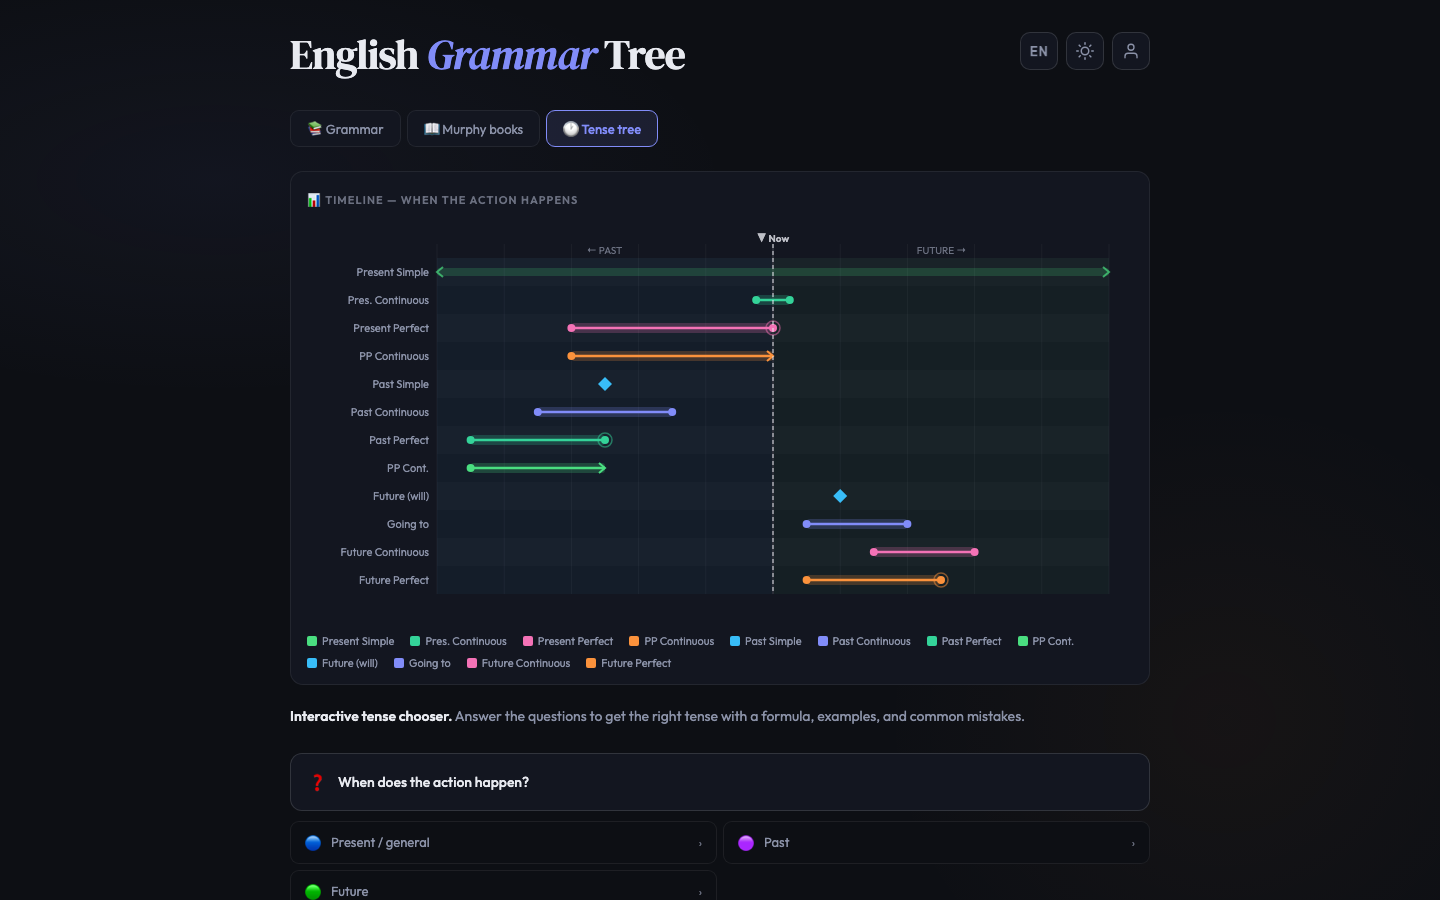
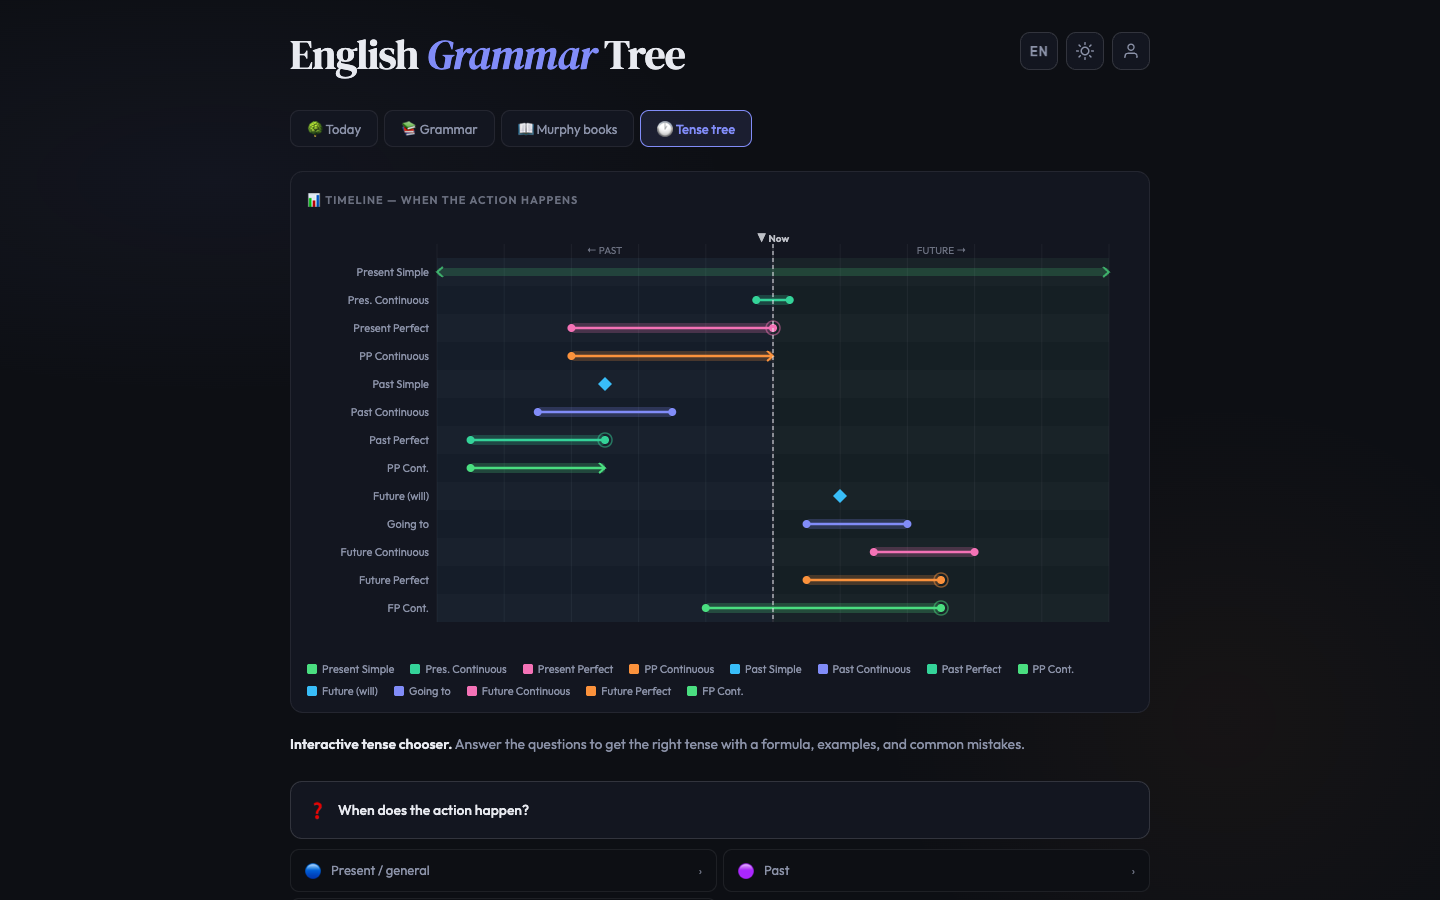
docs: readme screenshots and explanations for the tree, games and tenses
- New screenshots: the painted tree, its growth from bare to full bloom, the
  four times of day, a rule's card, the Today tab, games, a game round,
  progress and the Future Perfect Continuous result card.
- Explain how to read the tree and how the games feed the same progress.
- Refresh the tense timeline screenshot (13 tenses).

Changed region(s): [[0.1875, 0.6533, 0.75, 1.0], [0.2188, 0.1244, 0.5312, 0.1867], [0.5, 0.9333, 0.5625, 0.9956]]

diff --git a/README.md b/README.md
@@ -11,9 +11,9 @@
 [![Firebase](https://img.shields.io/badge/Firebase-ffca28?style=for-the-badge&logo=firebase&logoColor=black)](https://firebase.google.com)
 [![PWA](https://img.shields.io/badge/PWA-ready-5a0fc8?style=for-the-badge&logo=pwa&logoColor=white)](https://web.dev/progressive-web-apps/)
 
-![Grammar rules page](screenshots/main-page-dark.png)
+![Your grammar tree: every rule you learn grows leaves, blossom and apples](screenshots/grammar-tree.jpg)
 
-<sub><em>☀ Light theme · 🌙 Dark theme — switch any time, stays in sync across devices.</em></sub>
+<sub><em>Your progress is a tree. It starts bare; every rule you learn puts leaves, blossom and finally an apple on its own twigs.</em></sub>
 
 </div>
 
@@ -96,13 +96,44 @@ A polished **light/dark theme** (no flash on load), particle animations on rule 
 
 The **Today** tab (the default) turns the reference into a daily habit. A greeting card shows your 🔥 streak, the daily XP ring and your level, nudges you with what matters most right now (a streak at risk, leaves to water, XP left to the goal) and puts **one big button** in front of you: the daily session. Everything else sits behind a sticky switcher — **Tree · Games · Leaderboard · Progress · Badges**.
 
-**🌳 Tree**
+![Today tab: streak, daily goal, the session button and the tree](screenshots/today.jpg)
+
+#### 🌳 The tree — your progress, painted
+
+The tree is the heart of the app. It is not a decoration with a progress bar next to it: **the foliage itself is your progress**. A brand-new learner sees a bare winter tree; a learner who has mastered everything sees a crown heavy with apples.
+
+![The same tree on day one, a few weeks in, and with everything mastered](screenshots/tree-growth.jpg)
+
+**How to read it**
+
+| On the tree | Means |
+|---|---|
+| 🌰 A bud on a bare twig | You haven't started this rule |
+| 🌱 A few pale young leaves | Your first correct answers |
+| 🍃 A full green spray | You're learning the rule |
+| 🌸 Blossom | You know it — it counts as "in bloom" |
+| 🍎 An apple | Long-term memory: mastered |
+| 🍂 Yellow tips | It's due for review |
+| 🟡 A fully yellow spray with a red ring | A **shaky** rule: you keep getting it wrong in real use |
+
+**How it is organised**
+
 - A painted tree in a meadow: one limb per CEFR level, and every one of the 143 rules owns its own twigs and its own area of the crown.
-- The tree starts bare. A rule grows 🌰 bud → 🌱 young leaves → 🍃 full leaves → 🌸 blossom → 🍎 apple as you *prove* you know it. Leaves yellow 🍂 at the tips when it's time to review, and a rule you keep getting wrong in real use turns fully yellow with a red ring.
+- Rules follow the branch in curriculum order, so a topic fills in one sub-branch at a time and you can see where you are in a level.
 - Each limb carries a wooden sign with its level and count. A level in full bloom gets extra blossom and a gold sign.
 - Point at the crown to see a rule's area and name; tap it to open the rule or practise it. Every rule is also reachable by keyboard and screen reader.
 - The meadow follows your clock — night, sunrise, afternoon, sunset — and the limbs sway in the wind while leaves drift down (off when *reduce motion* is on, paused when the tree is off-screen).
 - **Level exams** (20 mixed questions, 80% to pass) earn a 👑 on the level's sign and a downloadable certificate.
+
+![Pointing at the crown shows a rule's area and name; tapping it opens its card](screenshots/tree-rule-card.jpg)
+
+<sub><em>Tap a rule's area to see its stage, your accuracy, and buttons to practise it or open the rule.</em></sub>
+
+The scene follows the time on your device, cross-fading over an hour at each change:
+
+![The meadow at night, sunrise, afternoon and sunset](screenshots/tree-day-cycle.jpg)
+
+Under the hood the tree is a painting cut into a trunk and six limbs, with leaves, blossom and fruit added from painted sprites on mapped twig points. The layout is computed for however many rules a level has, so adding rules never needs new artwork.
 
 **🎯 Learning loop**
 - **Daily session** — 12 short exercises (~5 min): due reviews first, your recent mistakes, then a few items from the next new rule. Spaced repetition (Leitner boxes: 1 → 3 → 7 → 14 → 30 → 60 → 120 days) decides what comes back and when.
@@ -111,7 +142,22 @@ The **Today** tab (the default) turns the reference into a daily habit. A greeti
 - **Placement test** — a 5-minute adaptive test that finds your level and can mark lower levels as known.
 - **Streaks with freezes, a daily XP goal, levels** and **20 badges**.
 
-**🎮 Games** — 43 games, all tied to grammar rules, with **personal recommendations** (the daily challenge plus games at your level you haven't tried) and filters by group: error hunter, right-or-wrong sprint, gap fill, sentence builder, dictation, survival, Murphy drill, tense detective (walk the decision tree), timeline match, marker sort, same scene/two tenses, verb forge, verb memory, article rush, preposition sort, adjective stack, number dictation, question maker, consequence match, transformer (passive), gossip chain (reported speech), verb patterns, modal detective, regret machine (wish), sentence welder (relative clauses), formalizer (inversion), spotlight (cleft), connector bridge, register slider, comma tap and more. **Challenge links** let a friend replay your exact round; the **daily challenge** gives everyone the same 15 questions.
+#### 🎮 Games — 43 ways to practise the same rules
+
+![Games: recommendations on top, then all 43 games with filters by group](screenshots/games.png)
+
+Every game is tied to grammar rules, so playing is never separate from learning: each answer moves the same spaced-repetition schedule as the daily session, earns XP towards your daily goal, and grows the same tree.
+
+- **Recommended for you** — the daily challenge plus games at your level that you haven't tried yet.
+- **Groups** — *Core* (work with every rule), *Tenses & verbs*, *Words & phrases*, *Sentence structures* and *Advanced (C1–C2)*.
+- **Modes** — relaxed rounds, 60-second sprints, and survival with three lives.
+- **Each card shows** the levels it covers, its mode and your best score.
+
+A round is deliberately small: one clear task at a time, instant feedback, and an explanation when you get it wrong.
+
+![A round of Error hunter: tap the word that is wrong](screenshots/game-round.png)
+
+The full list: error hunter, right-or-wrong sprint, gap fill, sentence builder, dictation, survival, Murphy drill, tense detective (walk the decision tree), timeline match, marker sort, same scene/two tenses, verb forge, verb memory, article rush, preposition sort, adjective stack, number dictation, question maker, consequence match, transformer (passive), gossip chain (reported speech), verb patterns, modal detective, regret machine (wish), sentence welder (relative clauses), formalizer (inversion), spotlight (cleft), connector bridge, register slider, comma tap and more. **Challenge links** let a friend replay your exact round; the **daily challenge** gives everyone the same 15 questions.
 
 **🏆 Leaderboard & friends** (signed-in users)
 - Boards: **Friends** (sort by this week's XP, all-time XP or streak), **This week** (everyone, resets every Monday) and **All time**.
@@ -134,6 +180,8 @@ The **Today** tab (the default) turns the reference into a daily habit. A greeti
 
 **📊 Progress** — XP per day, a 16-week activity heatmap, mastery by level (Grammar and Murphy books), your weakest rules, and practice settings (daily goal, sound, placement, reset).
 
+![Progress: XP per day, activity heatmap and mastery by level](screenshots/practice-progress.png)
+
 Exercises come from the existing rule content (≈1,100 common-mistake pairs and ≈300 example sentences are turned into exercises automatically) plus ≈970 hand-written drills in `app/practice/content/`.
 
 #### 💾 How practice is saved
@@ -146,6 +194,10 @@ Exercises come from the existing rule content (≈1,100 common-mistake pairs and
 - **Public profile** (`profiles/{uid}`) is rewritten only when a shown number changes, at most every 30 s (immediately at the end of a session). Leaderboards are cached for a minute; the only live listener is on your own friend requests.
 
 ### 📐 Grammar rules — organized, expandable, searchable
+
+![Grammar rules page](screenshots/main-page-dark.png)
+
+<sub><em>☀ Light theme · 🌙 Dark theme — switch any time, stays in sync across devices.</em></sub>
 
 ![Opened rule card](screenshots/rules.png)
 
@@ -186,6 +238,10 @@ Each rule card contains everything you need in one place:
 - **Timeline visualization** — see at a glance how all 13 tenses line up across past, present, and future — from Present Simple to Future Perfect Continuous
 - **Interactive decision tree** — a few guided questions and you land on the right tense, with formula, examples, and pitfalls
 - **Formulas, markers, examples, common mistakes** — always one tap away
+
+![Result card for Future Perfect Continuous: formula, time markers, examples and common mistakes](screenshots/tense-future-perfect-continuous.png)
+
+<sub><em>Every tense — including Future Perfect Continuous — ends in a card with its formula, time markers, examples and the mistakes learners make most.</em></sub>
 
 And when two tenses feel confusingly similar, compare them side-by-side:
 
